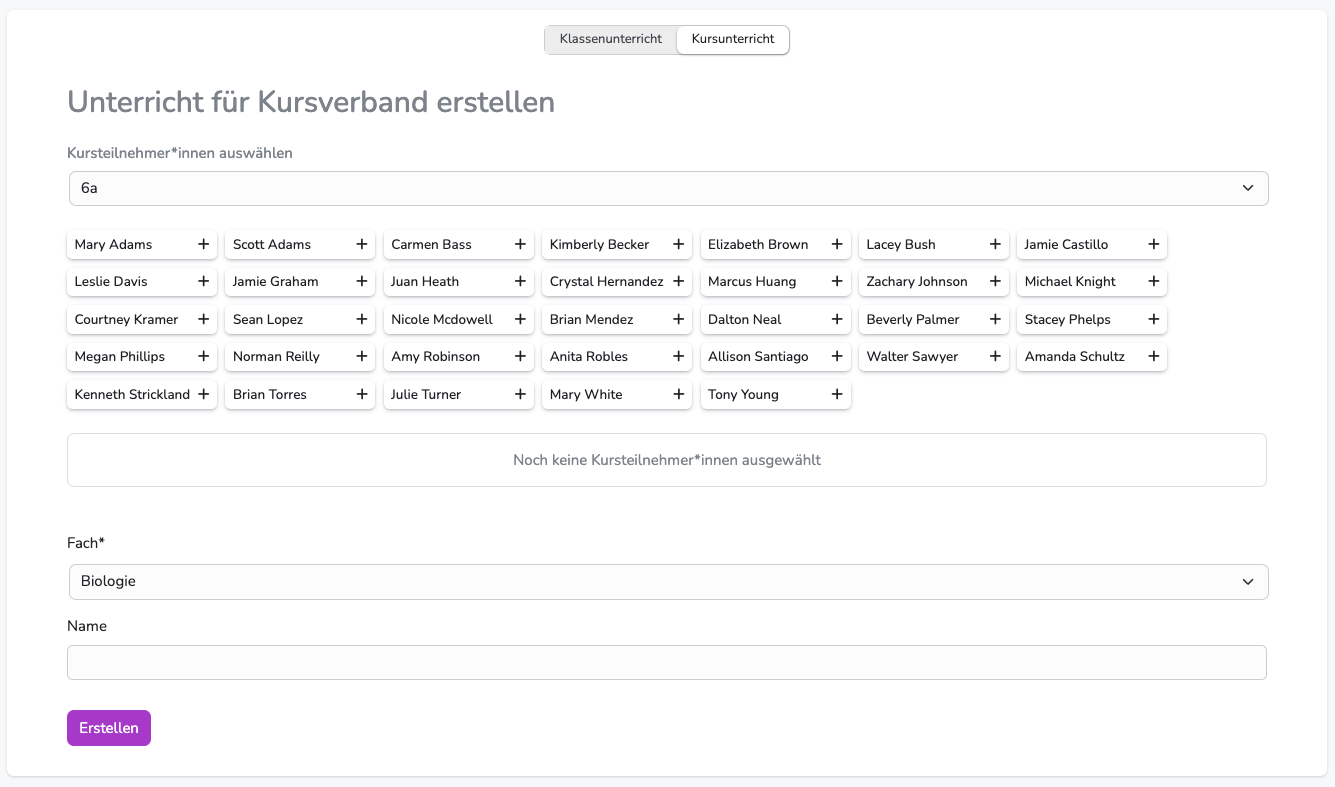
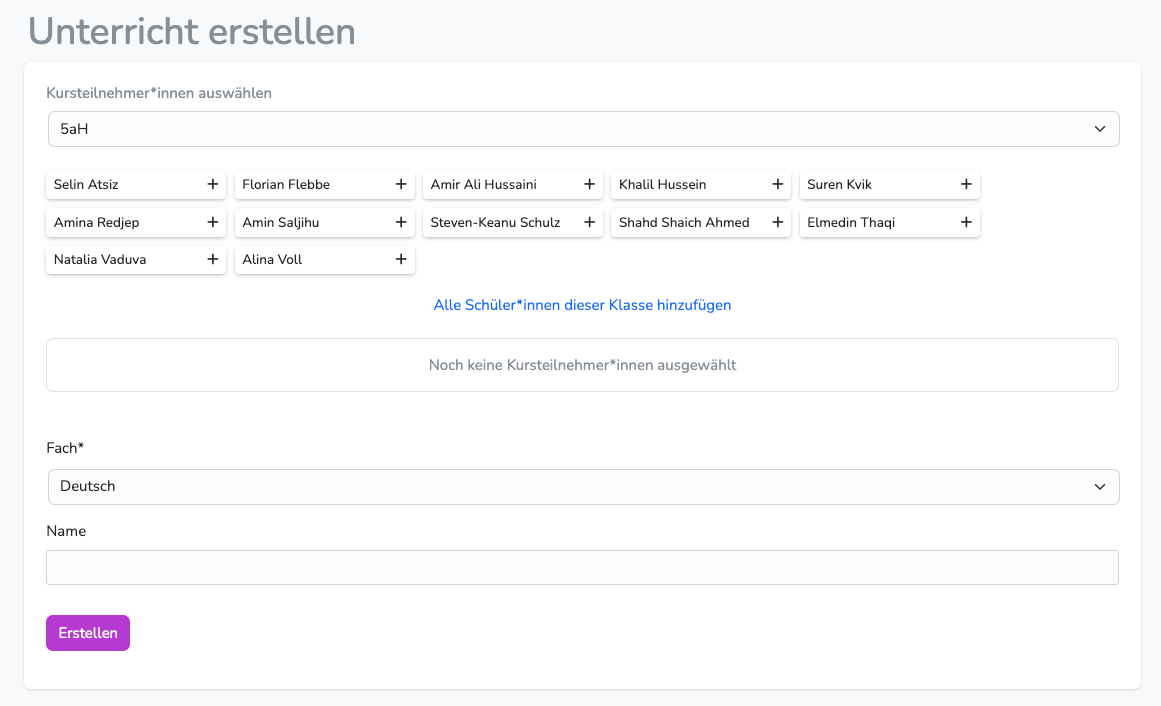
Danis, Unterricht anlegen, Warnungen

diff --git a/docs/stylesheets/extra.css b/docs/stylesheets/extra.css
@@ -31,6 +31,11 @@ background-color: #F8F9FA;
     color: #0c6
 }
 
+.success-contrast {
+    color: #02994E!important;
+
+}
+
 .warning {
     color: #f88600;
 }

diff --git a/docs/Anleitungen/Schritt_für_Schritt/Klassen_und_Kurse_anlegen.md b/docs/Anleitungen/Schritt_für_Schritt/Klassen_und_Kurse_anlegen.md
@@ -9,71 +9,43 @@ hide:
     **Warum muss ich das überhaupt machen?**<br>
     Wenn Deine Schule Diplomify mit einer Verwaltungssoftware wie WebUntis verbunden hat, findest du hier automatisch deinen Unterricht. - Keine weiteren Handlungen nötig.<br> <br>
     Wenn nicht, kannst du deinen eigenen Unterricht für das aktuelle Halbjahr anlegen, um einen besseren Überblick über deine bereits vergebenen Noten zu bekommen und schneller jene Schüler*innen zu bewerten, die du unterrichtest.
-<br>
-**Wechsle dazu in "Mein Unterricht"**
-
-<br>
+    <br>
+    Standardmäßig werden so auch Kurse und Profile angelegt.
 <br>
 
-## 1. Klassenunterricht anlegen
+## 1. Unterricht anlegen
 
-Klicke auf der Seite "Mein Unterricht" oben rechts auf "Unterricht hinzufügen" und wähle den Reiter "Klassenunterricht" <br>
+Wechsle dazu in "Mein Unterricht" <br>
+Klicke nun auf der Seite "Mein Unterricht" oben rechts auf "Unterricht hinzufügen"<br>
 
-![Klasse_anlegen](/img/02_Schritt_für_Schritt/Klassen_anlegen.png)
+![Unterricht anlegen](/img/02_Schritt_für_Schritt/Kursunterricht_erstellen.png)
 
 
- 1. Vergib nun einen beliebigen Namen. Dieser Name dient nur zu deiner Orientierung. Wir empfehlen eine Kombination aus Klasse und Fach. (z.B. "10d Deutsch")
- 2. Lege das unterrichete Fach fest. (In diesem Fach steht bei den SuS auf dem Zeugnis die Note.)
- 3. Wähle die unterrichtete Klasse aus.
- 4. Erstelle den Unterricht durch Klick auf "Erstellen"
-
-Der Klassenunterricht wird nun angelegt und dir auf der Seite "Mein Unterricht" angezeigt. Von hier aus kannst du schnell in die Bewertungsansicht wechseln. Klicke dazu einfach bei dem entsprechenden Unterricht auf "bewerten"
-
-!!! note ""
-    **Um angelegten Klassenunterricht umzubenennen**,
-
-    klicke einfach auf dessen Namen, benenne ihn um und bestätige mit ++return++
-
-!!! danger ""
-    Das Fach eines Klassenunterrichts kann nicht nachträglich geändert werden.
-
-    Sollte versehentlich das falsche Fach gewählt worden sein, muss der Klassenunterricht neu angelegt werden.
-
-<br>
-<br>
-
-## 2. Kursunterricht anlegen
-
-Klicke auf der Seite "Mein Unterricht" oben rechts auf "Unterricht hinzufügen" und wähle den Reiter "Kursunterricht" <br>
-
-![Kurse_anlegen](/img/02_Schritt_für_Schritt/Kursunterricht_erstellen.png)
-
-1. Wähle nun die Klasse, aus der Schüler*innen deinen Kurs besuchen.
+1. Wähle nun die Klasse der Schüler*innen aus, die deinen Unterricht besuchen.
 2. Wähle die Teilnehmer*innen deines Kurses aus, indem du auf die Namen klickst.
 3. Wechsle bei Bedarf die Klasse, um weitere SuS hinzuzufügen.
-4. Lege das Unterrichtsfach fest. (In diesem Fach steht bei den Kursteilnehmenden auf dem Zeugnis die Note.)
-5. Vergib einen beliebigen Namen. Wir empfehlen eine Kombination aus Fach und Jahrgang. (z.B. WPK Biologie 6)
-6. Erstelle den Kurs durch Klick auf "Erstellen"
-
-!!!info ""
-    Der Kursunterricht wird nun angelegt und dir auf der Seite "Mein Unterricht" angezeigt. Von hier aus kannst du schnell in die Bewertungsansicht wechseln. Klicke dazu einfach bei dem entsprechenden Unterricht auf "bewerten"
-
-!!! note ""
-    **Um angelegten Kursunterricht umzubenennen**,
-
-    klicke einfach auf dessen Namen, benenne ihn um und bestätige mit ++return++
-
-
+4. Lege das Unterrichtsfach fest.
 
 !!! danger ""
-    Das Fach eines Kursunterrichts kann nicht nachträglich geändert werden.
+    Achte bei der Auswahl auf die Korrektheit des gewählten Faches. <br>
+    Das zugeordnete Fach eines Unterrichts kann nicht nachträglich geändert werden. Sollte versehentlich das falsche Fach gewählt worden sein, muss der Unterricht neu angelegt werden. <br>
+    Sollte dein Fach nicht in dem Drop-Down-Menu angezeigt werden, kontaktiere deinen Administrator. Wähle nicht einfach das nächstbeste Fach aus.<br>
+    Bei dem gewählten Fach wird die vergebene Note auf dem Zeugnis eingetragen.
 
-    Sollte versehentlich das falsche Fach gewählt worden sein, muss der Kursnunterricht neu angelegt werden.
+5. Vergib einen beliebigen Namen. Wir empfehlen eine Kombination aus Fach und Jahrgang. (z.B. WPK Biologie 6)
+6. Erstelle den Unterricht durch Klick auf "Erstellen"
 
+Wenn du Unterricht für eine ganze Klasse anlegen möchtest (z.B. Deutsch), wähle die entsprechende Klasse und füge dann alle Schüler*innen dieser Klasse hinzu.
+
+Der Unterricht wird nun angelegt und dir auf der Seite "Mein Unterricht" angezeigt. Von hier aus kannst du schnell in die Bewertungsansicht wechseln. Klicke dazu einfach bei dem entsprechenden Unterricht auf "bewerten"
+
+Um angelegten Klassenunterricht umzubenennen,klicke einfach auf dessen Namen, benenne ihn um und bestätige mit ++return++
 <br>
-## 3. Mein Kursunterricht verwalten
+<br>
 
-### 3.1 Einzelne Schüler*innen wieder entfernen 
+## 2. Meinen Unterricht verwalten
+
+### 2.1 Einzelne Schüler*innen wieder entfernen 
     
 1. klicke in deiner Unterrichtsübersicht beim entsprechenden Kurs auf "bewerten", 
 2. wähle den gewünschten Namen
@@ -82,7 +54,7 @@ Klicke auf der Seite "Mein Unterricht" oben rechts auf "Unterricht hinzufügen" 
 !!! tip ""
     Du kannst übrigens in der Einzelfachansicht aus jedem Unterricht einzelne SuS entfernen.
 
-### 3.2 SuS nachträglich hinzufügen
+### 2.2 SuS nachträglich hinzufügen
 
 Mittels der Schülersuche innerhalb eines Kurses werden auch SuS gefunden, die diesem Kurs noch nicht zugeordnet sind.
 Durch einen Klick auf das "Plus" werden die gewünschten SuS dem Kurs hinzugefügt.<br>
@@ -90,9 +62,10 @@ Durch einen Klick auf das "Plus" werden die gewünschten SuS dem Kurs hinzugefü
 ![SuS hinzufügen](/img/02_Schritt_für_Schritt/schuelersuche_kurs.png)
 
 <br>
-## 4. Was kann schiefgehen?
 
-### 4.1 Kurszuordnung von SuS nicht möglich
+## 3. Was kann schiefgehen?
+
+### 3.1 Kurszuordnung von SuS nicht möglich
 SuS können nicht 2x dasselbe Fach unterrichtet bekommen.
 
 !!! danger ""

diff --git a/docs/Anleitungen/Administration/Import.md b/docs/Anleitungen/Administration/Import.md
@@ -6,13 +6,14 @@ hide:
 ## Importmöglichkeiten
 Aktuell stehen zwei Möglichkeiten zur Verfügung, um Diplomify mit den nötigen Schüler- Lehrer - und Unterrichtsdaten zu versorgen: <br>
 
-- CSV-Import<br>
+- [CSV-Import](#csv-import)<br>
 - WebUntis-Import<br>
 
-Welche Daten jeweils importiert werden können, zeigen die Tabellen T1 & T2. <br>
+Welche Daten jeweils importiert werden können, zeigen die Tabellen. <br>
 
 
-### Schüler*innen - Import (T1)
+**Schüler*innen - Import**
+
 | Merkmal Schüler*innen | CSV-Import                                                      | Webuntis-Import                             |
 |-----------------------|:---------------------------------:|:-------------------------------------------:|
 | Nachname              |:material-check-bold:{ .success }  |:material-check-bold: { .success }           |
@@ -25,7 +26,8 @@ Welche Daten jeweils importiert werden können, zeigen die Tabellen T1 & T2. <br
 | Klasse-ID             |:material-check-bold:{ .success }  |:material-check-bold: { .success }           |
 | Schüler-ID            |:material-check-bold:{ .success }  |:material-check-bold: { .success }           |
 
-### Lehrer*innen - Import (T2)
+**Lehrer*innen - Import**
+
 | Merkmal Lehrer*innen  | CSV-Import                        | Webuntis-Import                             |
 |-----------------------|:---------------------------------:|:-------------------------------------------:|
 | Nachname              |:material-check-bold:{ .success }  |:material-check-bold: { .success }           |
@@ -37,33 +39,23 @@ Welche Daten jeweils importiert werden können, zeigen die Tabellen T1 & T2. <br
 | Schulverwaltungs-ID   |:material-check-bold:{ .success }  |:material-check-bold: { .success }           |
 
 <br>
-##CSV-Import
+
+## CSV-Import
+
 Die Quellen für die CSV-Dateien sind sehr schulindividuell, in der Regel können die Daten aber aus dem verwendeten Schulverwaltungsprogramm exportiert werden. <br>
 Beim CSV-Import werden SuS automatisch ihren Klassen zugeordent. <br>
 **Eine automatische Erstellung und Zuordnung zu Kursen (z.B. WPK oder Profile) erfolgt nicht.** <br>
 Diese können aber leicht von den entsprechenden KuK angelegt werden.
 <br>
-### CSV-Schülerimport (Vorbereitung)
-Die CSV-Datei für den Schülerimport **muss** folgende Spalten enthalten: 
+### CSV-Schülerimport
+**Vorbereitung**
 
-!!! box ""
-    - **SchuelerNachname**
-    - **SchuelerRufname**
-    - **SchuelerGeburtsdatum** (für das Geburtsdatum auf dem Zeugnis)
-    - **SchuelerGeburtsort** (für den Geburtsort auf dem Zeugnis)
-    - **SchuelerAufnahmedatum** (wird aus Abgangszeugnissen angegeben)
-    - **SchuelerGeschlecht** (für gendergerechte Floskeln)
-    - **GruppeBezeichnung** (Klassenangabe auf dem Zeugnis und Zuordnung zur Klasse)
-    - **GruppeId** (eindeutige Identifikationsnummer der Klasse bei Mehrfachimporten)
-    - **SchuelerId** (eindeutige Identifiktaionsnummer des Schülers bei namensgleichen Schülern)
+ - [CSV-Datei aus DaNis exportieren...](Danisexport.md) <br>
+    Beispiel [ansehen](../../img/01_Administration/schueler_csv_beispiel.png) oder [herunterladen](../../files/schueler_csv_beispiel.csv)
 
-!!! warning ""
-    Die csv-Datei **muss** im Format UTF-8 formatiert sein und die Spalten müssen per **Semikolon** voneinander getrennt sein. <br>
-    
-    **Beispiel [ansehen](../../img/01_Administration/schueler_csv_beispiel.png) oder [herunterladen](../../files/schueler_csv_beispiel.csv)**
+**Durchführung**
 
-!!! success ""
-    Eine Datei mit genau diesen Eigenschaften kann mit DaNis erstellt werden (freie Liste).
+Navigiere zu 
 
 <br>
 ### CSV-Lehrerimport (Vorbereitung)

diff --git a/docs/Anleitungen/Administration/Danisexport.md b/docs/Anleitungen/Administration/Danisexport.md
@@ -1,0 +1,55 @@
+---
+hide:
+  - footer
+---
+
+!!! danger ""
+    Die Merkmale müssen sämtlich vorhanden sein und genau so benannt, wie angegeben.<br>
+    Alle Merkmale müssen Daten enthalten.
+
+<br>
+## Exportdatei erstellen
+**Die Anleitung bezieht sich auf DaNis in der Version 3**
+
+### 1.: Exportmenü öffnen
+
+Öffne DaNis und wähle im Menü „Berichte“ „Freie Liste“ aus.
+
+![Bewertungstabelle](../../img/01_Administration/Danisexport_1.png){ .image-75 } 
+
+### 2. Exporteinstellungen vornehmen
+
+Markiere im linken Feld folgende Merkmale: <br>
+
+!!! box ""
+    - **SchuelerNachname**
+    - **SchuelerRufname**
+    - **SchuelerGeburtsdatum** (für das Geburtsdatum auf dem Zeugnis)
+    - **SchuelerGeburtsort** (für den Geburtsort auf dem Zeugnis)
+    - **SchuelerAufnahmedatum** (wird aus Abgangszeugnissen angegeben)
+    - **SchuelerGeschlecht** (für gendergerechte Floskeln)
+    - **GruppeBezeichnung** (Klassenangabe auf dem Zeugnis und Zuordnung zur Klasse)
+    - **GruppeId** (eindeutige Identifikationsnummer der Klasse bei Mehrfachimporten)
+    - **SchuelerId** (eindeutige Identifiktaionsnummer des Schülers bei namensgleichen Schülern)
+
+Wähle anschließend im Bereich „Schulgliederungsauswahl“ das Schuljahr aus, das importiert
+werden soll. (In der Regel das aktuelle.) <br>
+Im Bereich „Gruppenauswahl“ wähle „Alle Gruppen“, um die gesamte Schülerschaft und alle Klassen zu exportieren.
+
+![Bewertungstabelle](../../img/01_Administration/Danisexport_2.png){ .image-75 }
+
+### 3. Auswahl für später speichern
+
+Speichere die Merkmalauswahl, damit du beim nächsten Export sofort darauf zugreifen kannst.
+Klicke dazu auf das kleine grüne Häkchen im Bereich „Feldauswahl“ und vergib bspw. die Bezeichnung „Diplomify - Schülerexport“.
+
+### 4. CSV-Datei erstellen
+
+Nun kann die Exportdatei erstellt werden:
+Klicke dazu rechts auf CSV-Export.
+Bei der anschließenden Abfrage kannst du festlegen in welchem Format die Datei erstellt werden soll. **Wähle bitte unbedingt UTF-8.**
+
+<hr>
+
+Die erstellte Datei kann nun in Diplomify importiert werden. <br>
+[Zum Artikel über den Import...](../Administration/Import.md)

diff --git a/docs/index.md b/docs/index.md
@@ -10,17 +10,17 @@ hide:
 <section>
 <h4>Alle Anleitungen</h4>
 <div class="space-around">
-    <a class="category" href="https://docs.diplomify.de/Anleitungen/FAQ/collection/">
+    <a class="category" href="/Anleitungen/FAQ/collection/">
         <h2 class="center">FAQ</h2>
         <img class="off-glb img-x-small" src="./img/assets/icons/faq.png">
         <span class="text-standard center">Häufig gefragt, schnell beantwortet.</span>
     </a>
-    <a class="category" href="https://docs.diplomify.de/Anleitungen/Schritt_f%C3%BCr_Schritt/Noten_eintragen/">
+    <a class="category" href="/Anleitungen/Schritt_f%C3%BCr_Schritt/Noten_eintragen/">
         <h2 class="center">Schritt für Schritt</h2>
         <img class="off-glb img-x-small" src="./img/assets/icons/finish.png">
         <span class="text-standard center">Einfache Erklärungen typischer Aufgaben - Schritt für Schritt.</span> 
     </a>
-        <a class="category" href="https://docs.diplomify.de/Anleitungen/Administration/%C3%9Cbersicht/">
+        <a class="category" href="/Anleitungen/Administration/%C3%9Cbersicht/">
         <h2 class="center">Administration</h2>
         <img class="off-glb img-x-small" src="./img/assets/icons/cogs.png">
         <span class="text-standard center">Der Maschinenraum von Diplomify - alles, was du darüber wissen musst.</span>

diff --git a/docs/Anleitungen/Administration/Fächer_anlegen.md b/docs/Anleitungen/Administration/Fächer_anlegen.md
@@ -33,6 +33,18 @@ Bei Fächern mit abweichendem Anforderungsniveau wird das gewählte Niveau auf d
     Fächer können nicht mehr gelöscht werden, wenn ein beliebiger Schüler darin bewertet wurde.
 <br>
 
+## Fächervariablen
+
+Interessen, Fähigkeiten, Fertigkeiten - interessen
+
+Sprechen und Zuhören - sprechen
+Lesen und mit Texten umgehen - lesen
+Schreiben, Texte erfassen - schreiben
+
+Zahlen und Operationen - zahlen
+Größen und Messen - messen
+Raum und Form - raum
+
 
 ## Fachgruppen verwalten
 

diff --git a/docs/Anleitungen/Schritt_für_Schritt/Versetzungswarnungen.md b/docs/Anleitungen/Schritt_für_Schritt/Versetzungswarnungen.md
@@ -16,7 +16,8 @@ Scrolle zum Bereich "Zusätzliche Informationen"
 
 Vergib die gewünschte Warnung. - Ein erneuter Klick auf die gewählte Warnung entfernt sie wieder.
 Der Text unter der Warnung weist auf die letzte Änderung hin.<br>
-**Die Eingabe wird automatisch gespeichert.**<br>
+
+:fontawesome-solid-thumbs-up:{ .success-contrast } **Die Eingabe wird automatisch gespeichert.**{ .success-contrast }<br>
 
 ![Warnungen](../../img/02_Schritt_für_Schritt/warnungen.png){ .image }
 
